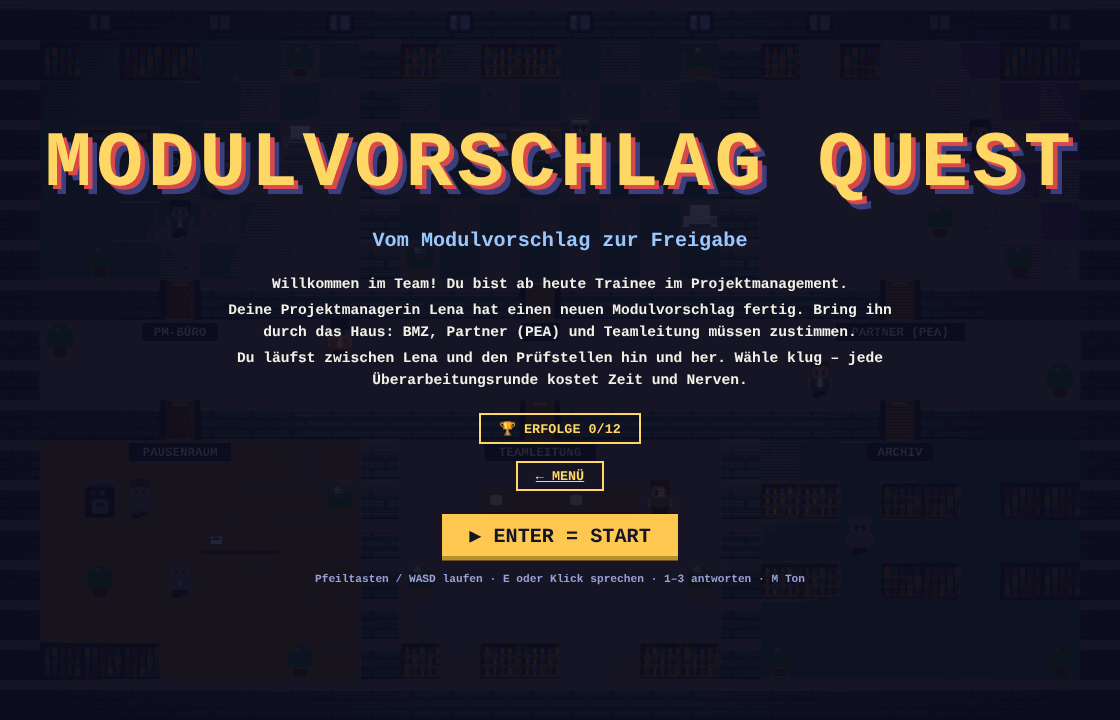
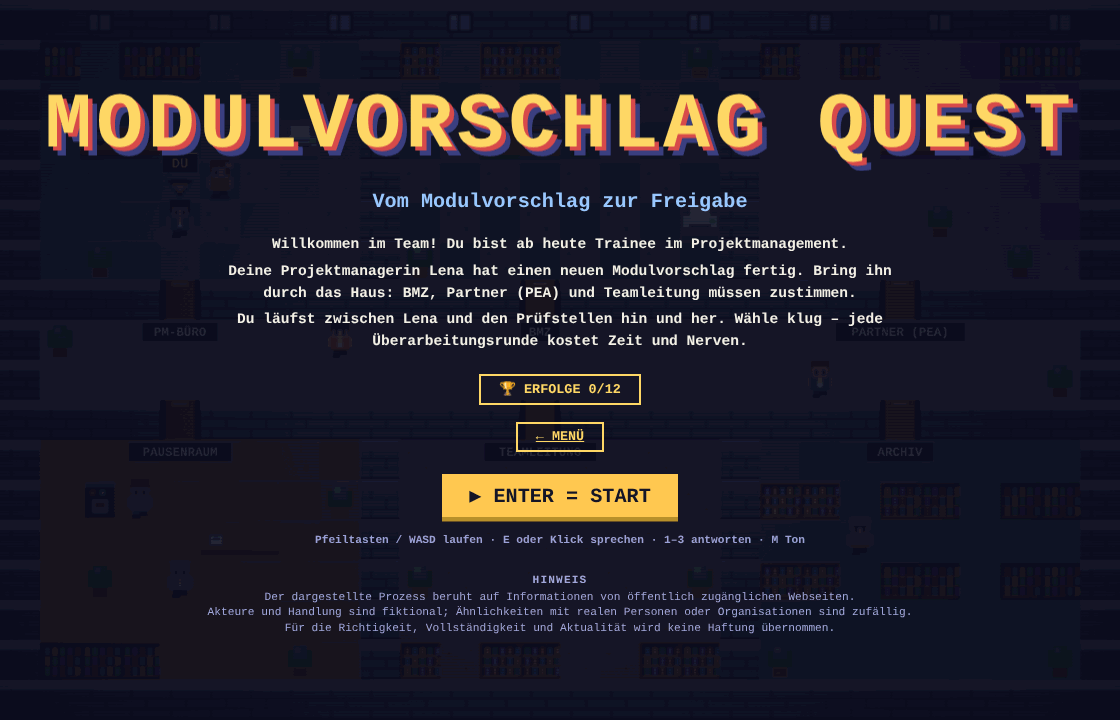
Title screen: disclaimer for the shipped templates
- new optional game field disclaimer[] (small print under the title screen) with ui.disclaimerLabel
- all four built-in games state: process based on public web information, fictional actors and story, no liability
- editor: field with explanation on the Allgemein tab; README and screenshot updated

Claude-Session: https://claude.ai/code/session_01WiCxt4bV3rKk4DbpjUmjvd

Changed region(s): [[0.0312, 0.1222, 0.8125, 0.8861], [0.7188, 0.1222, 0.9688, 0.3056], [0.6875, 0.7333, 0.7188, 0.7639]]

diff --git a/app/_components/editor/help.ts b/app/_components/editor/help.ts
@@ -156,6 +156,8 @@ const UI: Record<string, string> = {
   back: "Text der Zurück-Schaltfläche.",
   loadError: "Überschrift, wenn ein Spiel nicht geladen werden kann.",
   menu: "Text der Schaltfläche zurück zum Menü.",
+  disclaimerLabel:
+    "Überschrift des Hinweises auf dem Titelbildschirm (Standard „Hinweis“).",
 }
 
 const MAP: Record<string, Meta> = {
@@ -173,6 +175,11 @@ const MAP: Record<string, Meta> = {
     "Texte auf dem Titelbildschirm. Jeder Eintrag ist ein Absatz: Worum geht es, was ist das Ziel?"
   ),
   "intro.*": H("Absatz", "Ein Absatz der Einführung."),
+  disclaimer: H(
+    "Hinweis (Disclaimer)",
+    "Kleingedruckter Hinweis unten auf dem Titelbildschirm, z. B. zu Quellen, erfundenen Figuren und Haftung. Ein Eintrag pro Zeile. Ohne Einträge erscheint kein Hinweis."
+  ),
+  "disclaimer.*": H("Zeile", "Eine Zeile des Hinweises."),
   roundLimit: H(
     "Rundenlimit",
     "Wie viele Überarbeitungsrunden erlaubt sind. Wird die Zahl überschritten, endet das Spiel ohne Erfolg. Üblich: 2–4."

diff --git a/app/_components/editor/Editor.tsx b/app/_components/editor/Editor.tsx
@@ -25,6 +25,7 @@ const TABS: Array<{ id: string; label: string; keys: string[] }> = [
       "title",
       "subtitle",
       "intro",
+      "disclaimer",
       "roundLimit",
       "firstStage",
       "texts",
@@ -48,6 +49,7 @@ const OPTIONAL_SECTIONS: Record<string, any> = {
   scoring: DEFAULT_SCORING,
   ui: DEFAULT_UI,
   debrief: { stats: [{ label: "TIPPS", stat: "hints" }] },
+  disclaimer: [""],
 }
 
 export function Editor({
@@ -278,8 +280,10 @@ export function Editor({
                   className={styles.mini}
                   onClick={() => ctx.set([k], OPTIONAL_SECTIONS[k])}
                 >
-                  + „{metaFor([k]).label ?? k}“ anpassen (sonst gelten
-                  Standardwerte)
+                  + „{metaFor([k]).label ?? k}“{" "}
+                  {k === "disclaimer"
+                    ? "hinzufügen"
+                    : "anpassen (sonst gelten Standardwerte)"}
                 </button>
               ) : null
             const v = proc[k]

diff --git a/app/_game/schema.ts b/app/_game/schema.ts
@@ -105,6 +105,8 @@ export interface Process {
   title: string
   subtitle: string
   intro: string[]
+  /** Small print on the title screen, one entry per line (sources, fiction, liability). */
+  disclaimer?: string[]
   roundLimit: number
   firstStage: string
   pipeline: PipelineStep[]
@@ -250,6 +252,7 @@ export interface UiTexts {
   back: string
   loadError: string
   menu: string
+  disclaimerLabel: string
 }
 
 export const DEFAULT_UI: UiTexts = {
@@ -276,4 +279,5 @@ export const DEFAULT_UI: UiTexts = {
   back: "ZURÜCK [ESC]",
   loadError: "Das Spiel konnte nicht geladen werden",
   menu: "← MENÜ",
+  disclaimerLabel: "Hinweis",
 }

diff --git a/app/_components/GameClient.tsx b/app/_components/GameClient.tsx
@@ -533,6 +533,16 @@ export function GameClient({ proc }: { proc: Process }) {
                 {ui.bestScore.replace("{n}", String(best))}
               </p>
             )}
+            {!!proc.disclaimer?.length && (
+              <aside className={styles.disclaimer}>
+                <b>{ui.disclaimerLabel}</b>
+                <ul>
+                  {proc.disclaimer.map((t) => (
+                    <li key={t}>{t}</li>
+                  ))}
+                </ul>
+              </aside>
+            )}
           </div>
         )}
 

diff --git a/app/game.module.css b/app/game.module.css
@@ -488,3 +488,20 @@
   padding: 0.3cqw 0.9cqw;
   background: rgba(30, 33, 80, 0.8);
 }
+.disclaimer {
+  margin-top: 1.4cqw;
+  max-width: 78cqw;
+  font-size: max(1cqw, 9px);
+  line-height: 1.35;
+  font-weight: 400;
+  color: #a2a9dc;
+}
+.disclaimer b {
+  letter-spacing: 0.1cqw;
+  text-transform: uppercase;
+}
+.disclaimer ul {
+  margin: 0.2cqw 0 0;
+  padding: 0;
+  list-style: none;
+}

diff --git a/README.md b/README.md
@@ -210,6 +210,7 @@ and the consistency checks in [`app/_game/validate.ts`](app/_game/validate.ts).
 | Key | Meaning |
 |---|---|
 | `id`, `title`, `subtitle`, `intro[]` | Name and title screen text; `intro` is a list of paragraphs |
+| `disclaimer[]` | Optional small print at the bottom of the title screen, one entry per line (the built-in games use it for sources, fiction and liability) |
 | `roundLimit` | Revision rounds allowed; one more ends the game |
 | `firstStage` | Stage id where the game starts |
 | `pipeline[]` | Progress bar: `{label, stages[]}` per big step |
